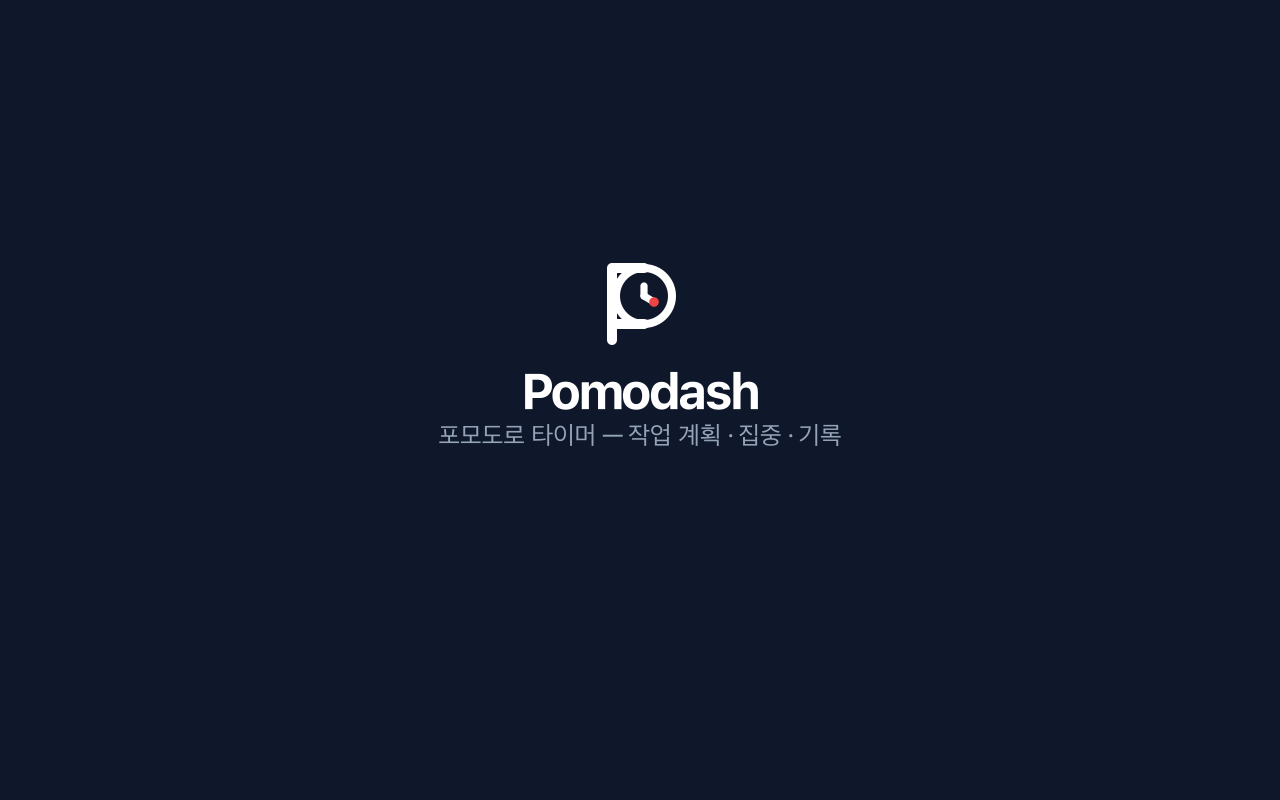
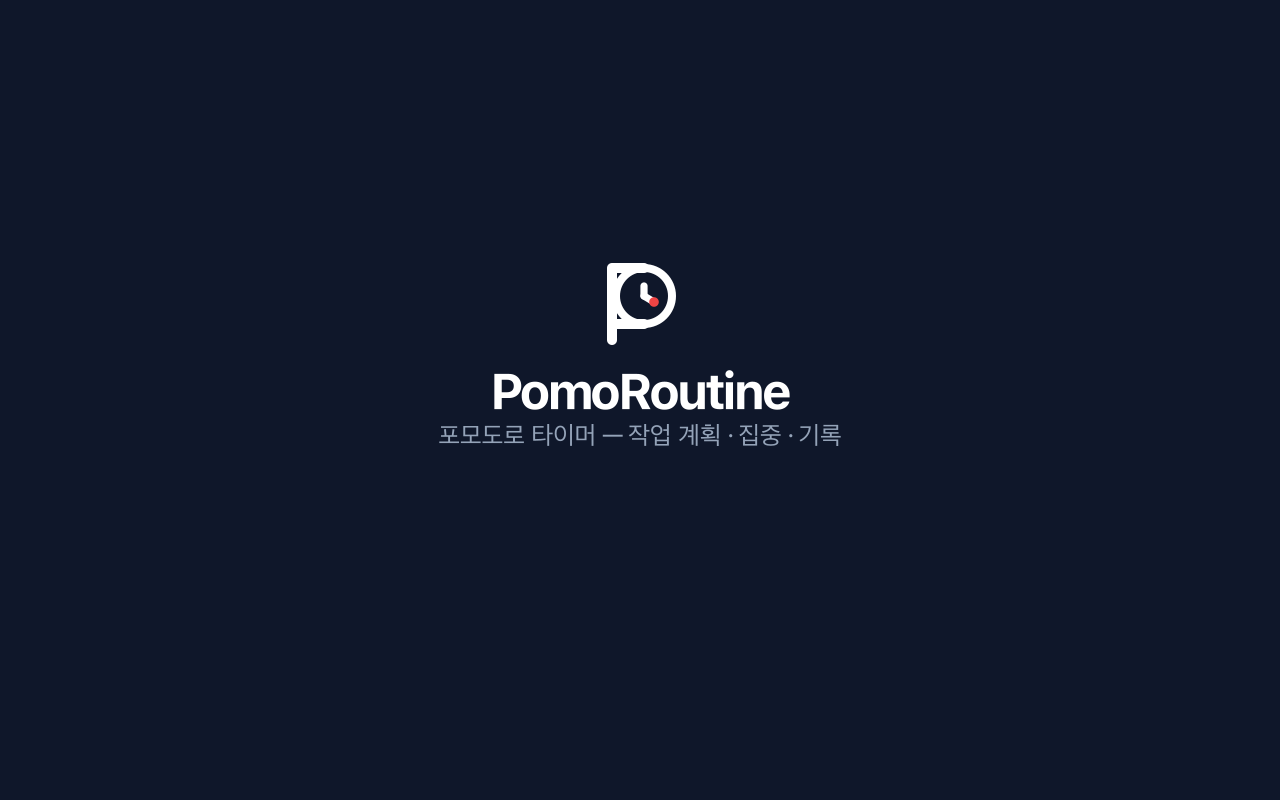
chore: 웹 브랜딩을 Pomodash에서 PomoRoutine으로 변경 (#163)
* chore: 웹 브랜딩을 Pomodash에서 PomoRoutine으로 변경

* docs: rename-web-branding 완료 표시

Changed region(s): [[0.375, 0.4688, 0.625, 0.5312]]

diff --git a/apps/web/components/dashboard/ShareCardModal.tsx b/apps/web/components/dashboard/ShareCardModal.tsx
@@ -25,7 +25,7 @@ export function ShareCardModal({ data, onClose }: Props) {
   const { colorTheme } = useAccentTheme();
   const palette = COLOR_THEMES[colorTheme].shareCard;
   const shareSupported = canShareFiles();
-  const filename = `pomodash-share-${data.generatedAtLabel.replaceAll('.', '')}.png`;
+  const filename = `pomoroutine-share-${data.generatedAtLabel.replaceAll('.', '')}.png`;
 
   // Popup 콘텐츠는 마운트보다 한 틱 늦게 DOM에 붙어 useEffect([data])로는 canvasRef가 아직 null일 수 있어, 콜백 ref로 실제 부착 시점에 맞춰 그린다
   const setCanvasRef = (node: HTMLCanvasElement | null) => {
@@ -54,7 +54,7 @@ export function ShareCardModal({ data, onClose }: Props) {
     if (!canvasRef.current) return;
     setIsBusy(true);
     try {
-      await shareCanvasAsPng(canvasRef.current, filename, '오늘의 집중 기록 — Pomodash');
+      await shareCanvasAsPng(canvasRef.current, filename, '오늘의 집중 기록 — PomoRoutine');
     } finally {
       setIsBusy(false);
     }

diff --git a/apps/web/components/auth/AuthShell.tsx b/apps/web/components/auth/AuthShell.tsx
@@ -11,7 +11,7 @@ export function AuthShell({ title, children }: Props) {
     <div className="flex min-h-screen flex-col items-center justify-center bg-background px-6 py-12">
       <div className="w-full max-w-sm flex flex-col gap-6">
         <Link href="/landing" className="self-center text-primary font-bold text-lg">
-          Pomodash
+          PomoRoutine
         </Link>
         <div className="rounded-xl border border-border bg-card p-6 flex flex-col gap-6">
           {title && <h1 className="text-xl font-bold text-foreground text-center">{title}</h1>}

diff --git a/apps/web/components/landing/LandingHeader.tsx b/apps/web/components/landing/LandingHeader.tsx
@@ -5,7 +5,7 @@ export function LandingHeader() {
     <header className="sticky top-0 z-50 border-b border-border bg-background/80 backdrop-blur-sm">
       <div className="mx-auto max-w-6xl px-6 h-16 flex items-center justify-between">
         <a href="#top" className="text-primary font-bold text-base">
-          Pomodash
+          PomoRoutine
         </a>
         <nav className="hidden sm:flex items-center gap-6 text-sm text-muted-foreground">
           <a href="#features" className="hover:text-foreground transition-colors">

diff --git a/apps/web/config/site.ts b/apps/web/config/site.ts
@@ -3,8 +3,8 @@ export const siteUrl = process.env.VERCEL_PROJECT_PRODUCTION_URL
   : 'http://localhost:3000';
 
 export const siteConfig = {
-  name: 'Pomodash',
-  title: 'Pomodash — 포모도로 타이머',
+  name: 'PomoRoutine',
+  title: 'PomoRoutine — 포모도로 타이머',
   description:
     '작업 계획, 포모도로 집중, 공부 기록을 한 곳에서. 수험생과 취업준비생을 위한 무료 집중 타이머',
   ogDescription: '작업 계획, 포모도로 집중, 공부 기록을 한 곳에서',

diff --git a/apps/web/app/manifest.ts b/apps/web/app/manifest.ts
@@ -27,14 +27,14 @@ export default function manifest(): MetadataRoute.Manifest {
         sizes: '1280x800',
         type: 'image/png',
         form_factor: 'wide',
-        label: 'Pomodash 데스크탑',
+        label: 'PomoRoutine 데스크탑',
       },
       {
         src: '/screenshot-narrow.png',
         sizes: '390x844',
         type: 'image/png',
         form_factor: 'narrow',
-        label: 'Pomodash 모바일',
+        label: 'PomoRoutine 모바일',
       },
     ],
   };

diff --git a/apps/web/components/shared/layout/Sidebar.tsx b/apps/web/components/shared/layout/Sidebar.tsx
@@ -10,7 +10,7 @@ export function Sidebar() {
   return (
     <aside className="w-60 shrink-0 h-full flex flex-col justify-start bg-card border-r border-border">
       <div className="h-16 flex items-center px-5 border-b border-border">
-        <span className="text-primary text-base font-bold">Pomodash</span>
+        <span className="text-primary text-base font-bold">PomoRoutine</span>
       </div>
 
       <nav className="flex flex-col gap-0.5 px-2.5 py-3">

diff --git a/apps/web/app/welcome/page.tsx b/apps/web/app/welcome/page.tsx
@@ -28,7 +28,7 @@ export default async function WelcomePage() {
         <div className="flex flex-col gap-1">
           <h1 className="text-lg font-semibold text-foreground">가입이 완료됐어요</h1>
           <p className="text-sm text-muted-foreground">
-            환영해요! 이제 Pomodash를 시작할 수 있어요.
+            환영해요! 이제 PomoRoutine를 시작할 수 있어요.
           </p>
         </div>
         <Link

diff --git a/apps/web/components/landing/LandingFooter.tsx b/apps/web/components/landing/LandingFooter.tsx
@@ -4,7 +4,7 @@ export function LandingFooter() {
   return (
     <footer className="border-t border-border">
       <div className="mx-auto max-w-6xl px-6 h-14 flex items-center justify-between text-xs text-muted-foreground">
-        <span>© 2026 Pomodash</span>
+        <span>© 2026 PomoRoutine</span>
         <div className="flex gap-5">
           <a href="#features" className="hover:text-foreground transition-colors">
             기능

diff --git a/apps/web/types/schemas.ts b/apps/web/types/schemas.ts
@@ -162,10 +162,10 @@ export const NewPasswordSchema = z
   });
 
 export const STORAGE_KEYS = {
-  activeTimer: 'pomodash:active-timer',
-  version: 'pomodash:version',
+  activeTimer: 'pomoroutine:active-timer',
+  version: 'pomoroutine:version',
   theme: 'theme',
-  colorTheme: 'pomodash:color-theme',
+  colorTheme: 'pomoroutine:color-theme',
 } as const;
 
 export const DEFAULT_CATEGORIES: Category[] = [

diff --git a/apps/web/lib/shareCardCanvas.ts b/apps/web/lib/shareCardCanvas.ts
@@ -46,7 +46,7 @@ function drawHeader(
   ctx.textAlign = 'left';
   ctx.fillStyle = colors.accent;
   ctx.font = '700 40px Pretendard';
-  ctx.fillText('Pomodash', PADDING, PADDING + 20);
+  ctx.fillText('PomoRoutine', PADDING, PADDING + 20);
 
   ctx.font = '600 28px Pretendard';
   const pillText = periodLabel;

diff --git a/apps/web/app/opengraph-image.tsx b/apps/web/app/opengraph-image.tsx
@@ -52,7 +52,7 @@ export default function OgImage() {
             lineHeight: 1,
           }}
         >
-          Pomodash
+          PomoRoutine
         </div>
         <div
           style={{

diff --git a/apps/web/public/sw.js b/apps/web/public/sw.js
@@ -1,4 +1,4 @@
-const CACHE_NAME = 'pomodash-v1';
+const CACHE_NAME = 'pomoroutine-v1';
 
 self.addEventListener('install', (event) => {
   self.skipWaiting();
